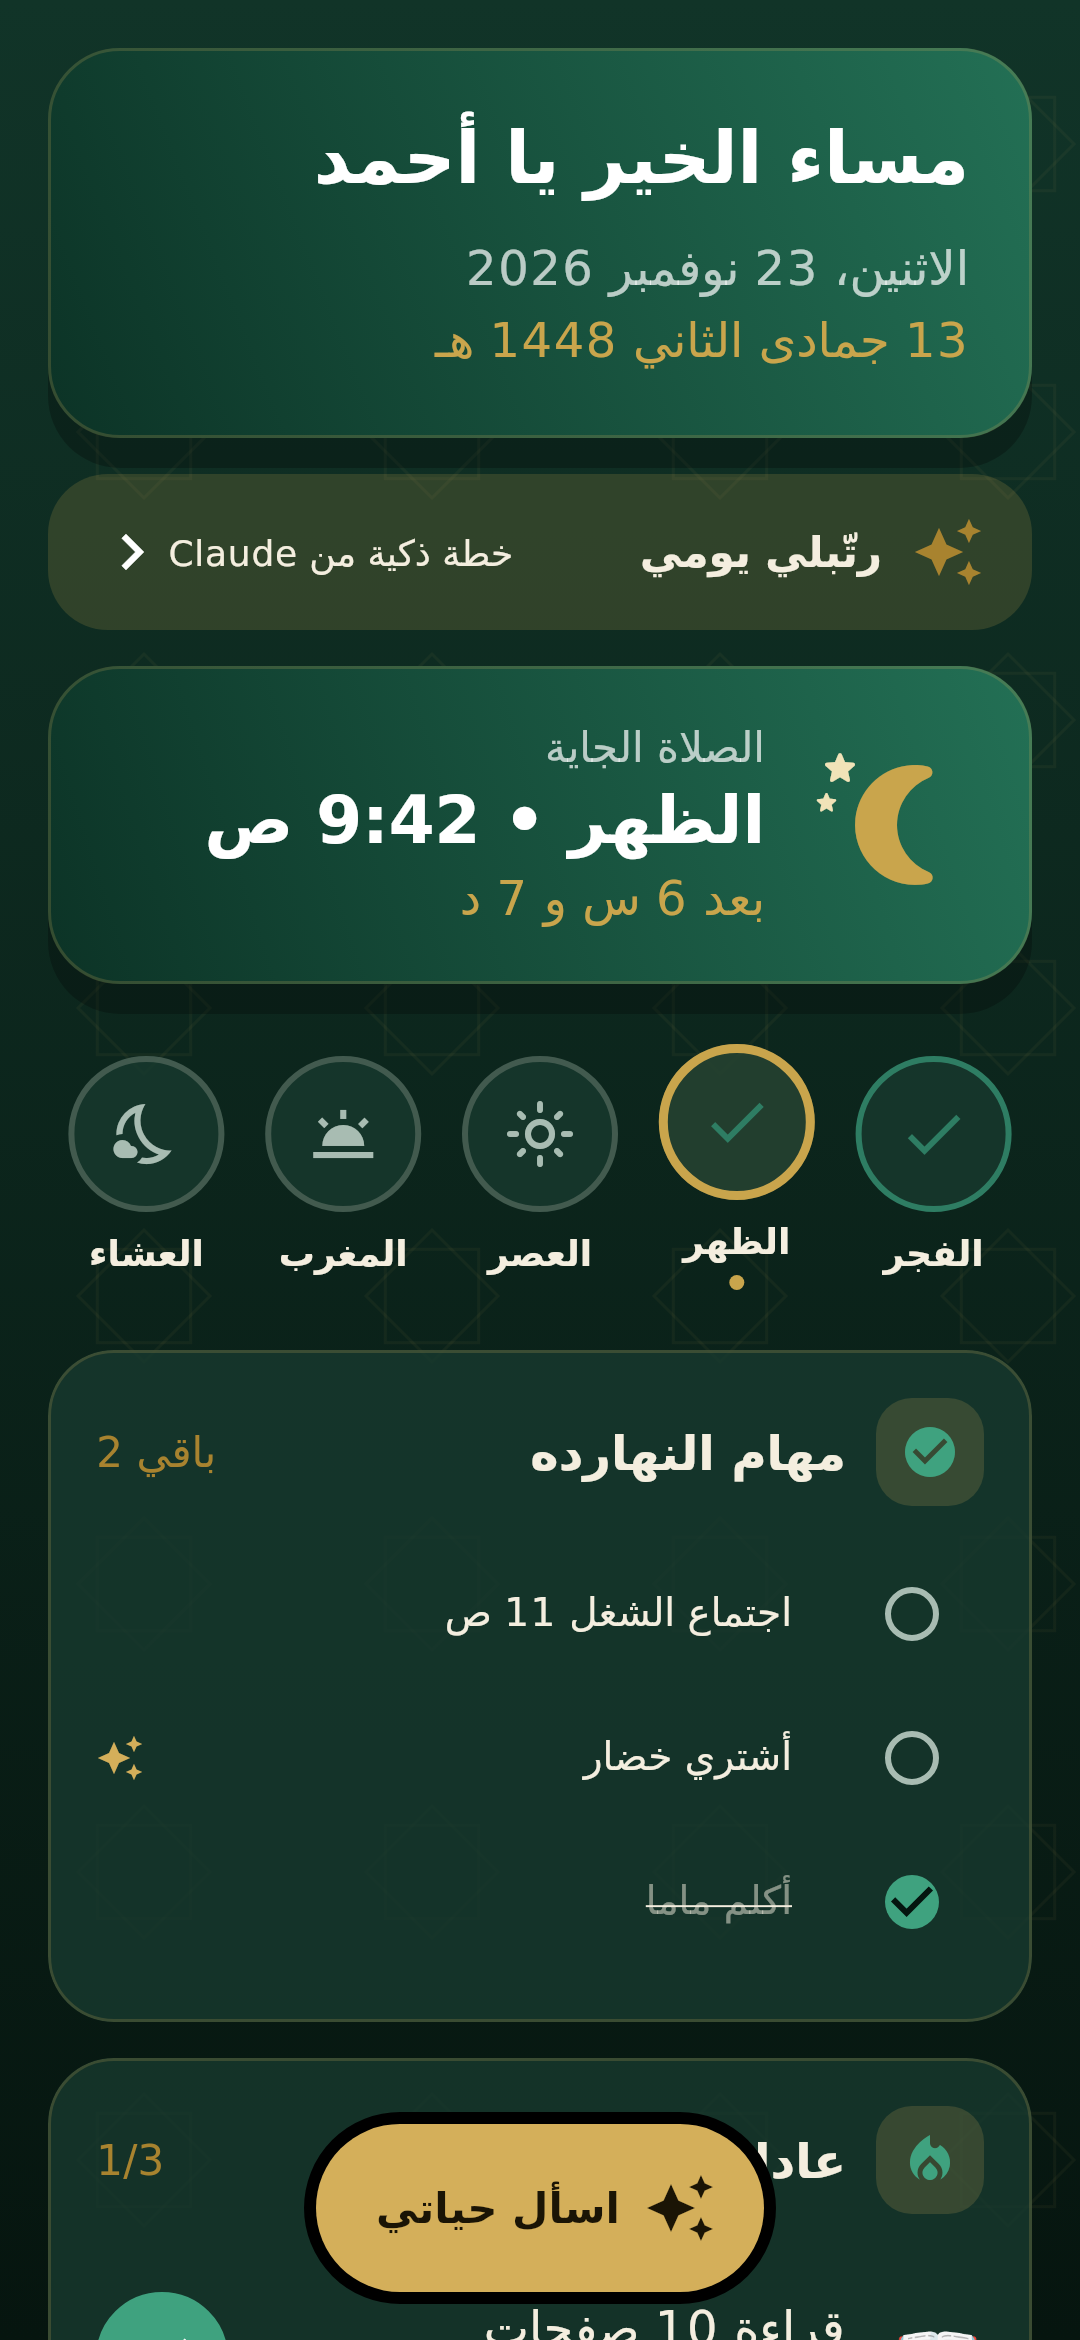
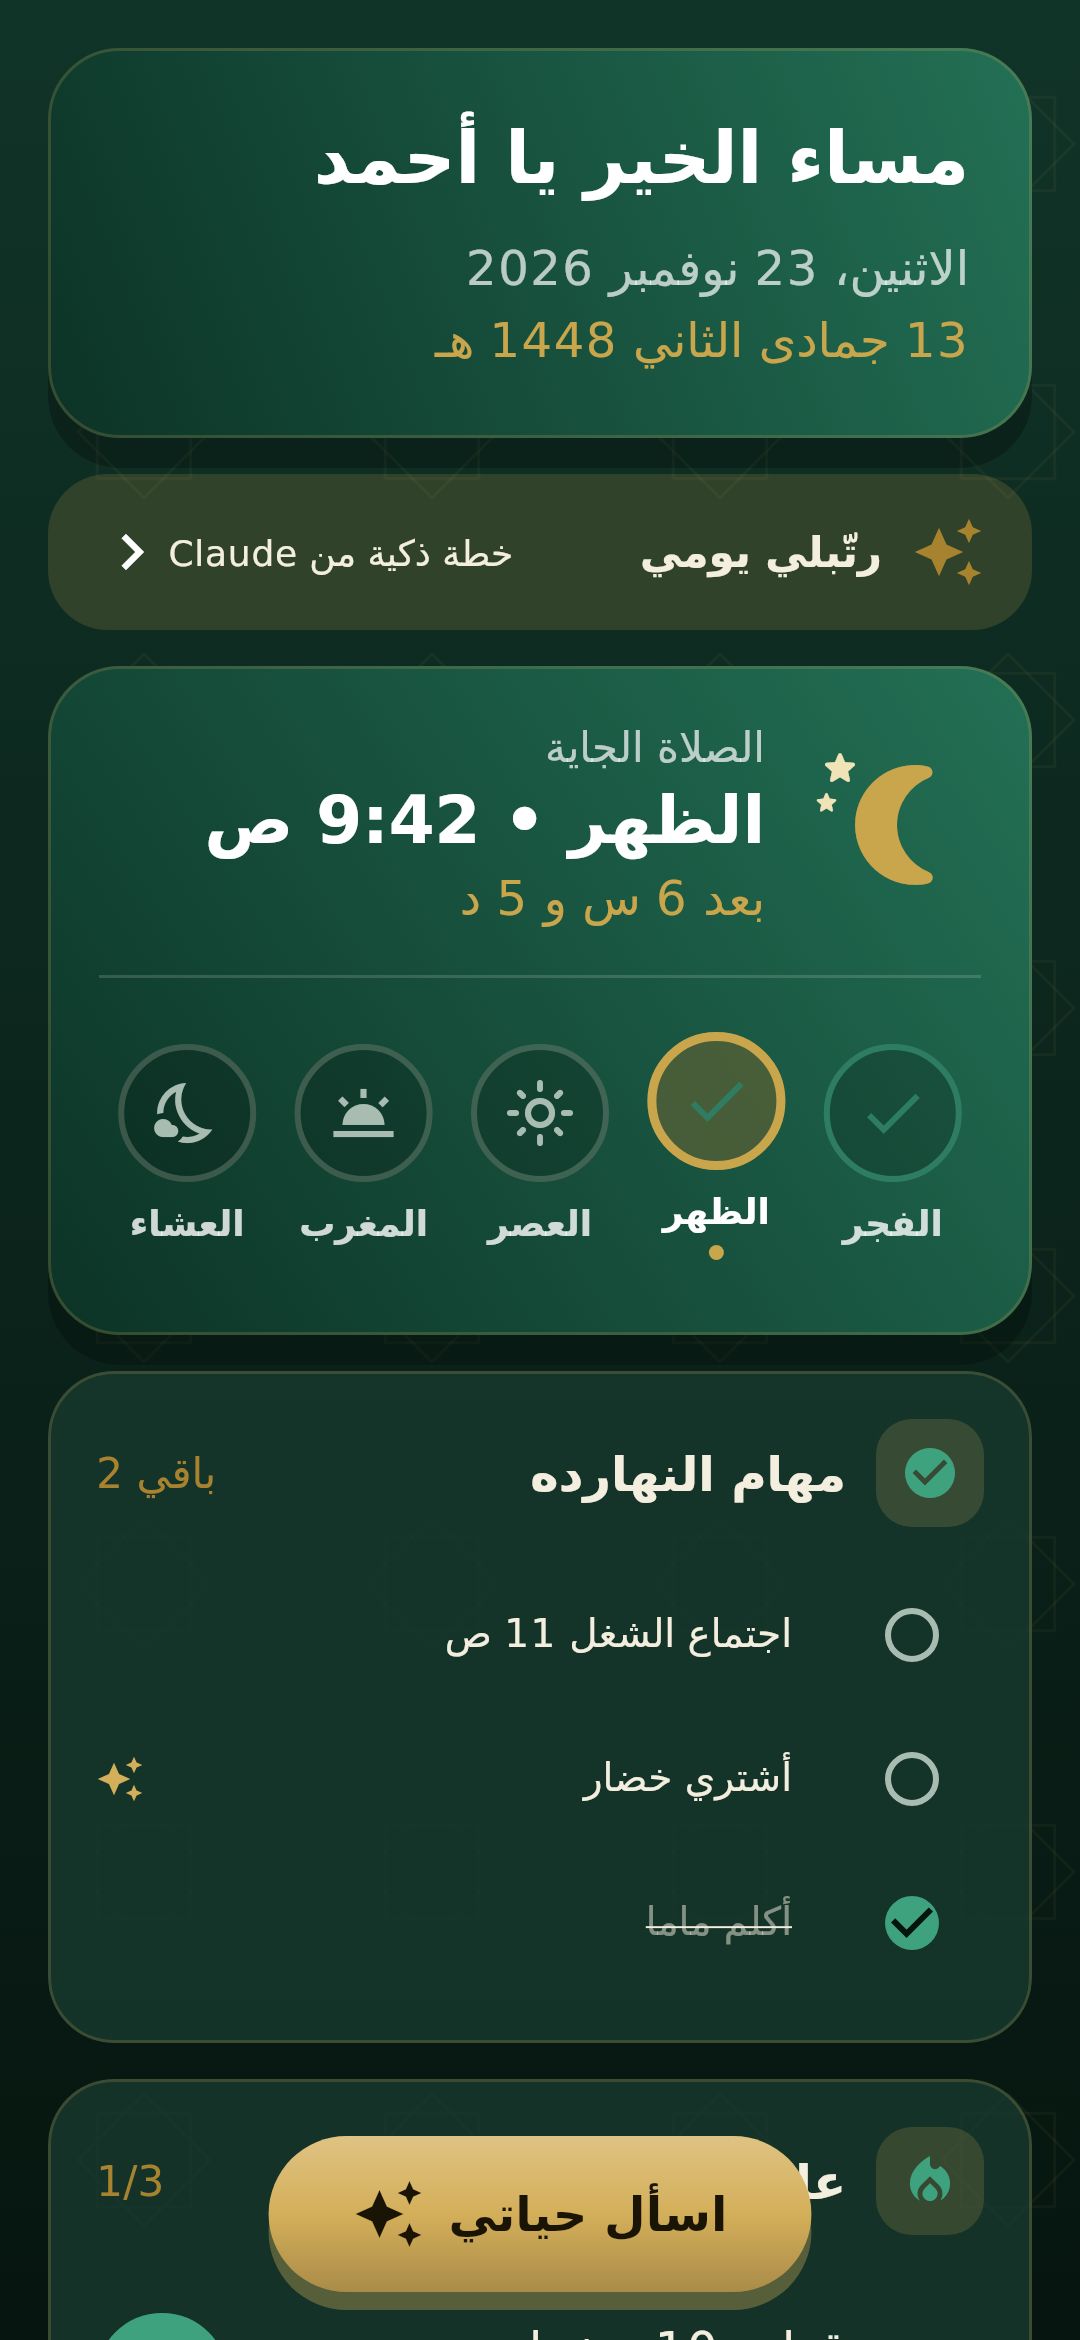
«يومي» زي تصميم Canva الغامق
- دواير الصلوات جوه بطاقة الصلاة الجاية نفسها
- زرار «اسأل حياتي» بتدرّج ذهبي ولمعة
- تصميم Canva للشاشة الرئيسية بالثيم الغامق: https://canva.link/lgh809nareywvcc

Claude-Session: https://claude.ai/code/session_012Fkr24NAbBCQeJKGYjUUBa

diff --git a/lib/features/today/today_screen.dart b/lib/features/today/today_screen.dart
@@ -71,16 +71,7 @@ class _TodayScreenState extends ConsumerState<TodayScreen> {
 
     return Scaffold(
       floatingActionButtonLocation: FloatingActionButtonLocation.centerFloat,
-      floatingActionButton: FloatingActionButton.extended(
-        elevation: 4,
-        shape: const StadiumBorder(),
-        onPressed: () => context.push('/assistant'),
-        icon: const Icon(Icons.auto_awesome),
-        label: const Text(
-          'اسأل حياتي',
-          style: TextStyle(fontWeight: FontWeight.w800),
-        ),
-      ),
+      floatingActionButton: const _AskButton(),
       body: SafeArea(
         child: ListView(
           padding: const EdgeInsets.fromLTRB(16, 16, 16, 96),
@@ -92,10 +83,9 @@ class _TodayScreenState extends ConsumerState<TodayScreen> {
             const SizedBox(height: 12),
             GestureDetector(
               onTap: () => context.go('/worship'),
-              child: const NextPrayerHero(compact: true),
+              // دواير الصلوات جوه نفس البطاقة (زي تصميم Canva الغامق)
+              child: const NextPrayerHero(compact: true, footer: _PrayersRow()),
             ),
-            const SizedBox(height: 12),
-            const _PrayersRow(),
             const _RamadanSlot(),
             const SizedBox(height: 12),
             SectionCard(
@@ -253,10 +243,12 @@ class _PrayersRow extends ConsumerWidget {
           mainAxisAlignment: MainAxisAlignment.spaceAround,
           children: [
             for (final p in PrayerName.values)
-              PrayerDot(
-                prayer: p,
-                status: log[p],
-                isNext: nextIsToday && next.name == p,
+              Expanded(
+                child: PrayerDot(
+                  prayer: p,
+                  status: log[p],
+                  isNext: nextIsToday && next.name == p,
+                ),
               ),
           ],
         ),
@@ -301,11 +293,11 @@ class PrayerDot extends StatelessWidget {
     return Column(
       children: [
         Container(
-          width: 52,
-          height: 52,
+          width: 46,
+          height: 46,
           decoration: BoxDecoration(
             shape: BoxShape.circle,
-            color: Theme.of(context).cardTheme.color,
+            color: Colors.black.withValues(alpha: 0.18),
             border: Border.all(color: ring, width: isNext ? 3 : 2),
             boxShadow: isNext
                 ? [
@@ -334,10 +326,14 @@ class PrayerDot extends StatelessWidget {
           ),
         ),
         const SizedBox(height: 6),
-        Text(
-          prayer.ar,
-          style: Theme.of(context).textTheme.labelMedium?.copyWith(
-            fontWeight: isNext ? FontWeight.w800 : FontWeight.w600,
+        FittedBox(
+          fit: BoxFit.scaleDown,
+          child: Text(
+            prayer.ar,
+            style: Theme.of(context).textTheme.labelMedium?.copyWith(
+              color: Colors.white.withValues(alpha: isNext ? 1 : 0.8),
+              fontWeight: isNext ? FontWeight.w800 : FontWeight.w600,
+            ),
           ),
         ),
         if (isNext)
@@ -619,6 +615,62 @@ class _RamadanSlot extends ConsumerWidget {
       child: GestureDetector(
         onTap: () => context.push('/worship/ramadan'),
         child: const RamadanHero(),
+      ),
+    );
+  }
+}
+
+/// زرار «اسأل حياتي» بتدرّج ذهبي ولمعة
+class _AskButton extends StatelessWidget {
+  const _AskButton();
+
+  @override
+  Widget build(BuildContext context) {
+    final p = context.palette;
+    return DecoratedBox(
+      decoration: BoxDecoration(
+        borderRadius: BorderRadius.circular(40),
+        gradient: LinearGradient(
+          colors: [
+            Color.lerp(p.accent, Colors.white, 0.25)!,
+            p.accent,
+            Color.lerp(p.accent, Colors.black, 0.2)!,
+          ],
+          begin: Alignment.topCenter,
+          end: Alignment.bottomCenter,
+        ),
+        boxShadow: [
+          BoxShadow(
+            color: p.accent.withValues(alpha: 0.35),
+            blurRadius: 18,
+            offset: const Offset(0, 6),
+          ),
+        ],
+      ),
+      child: Material(
+        type: MaterialType.transparency,
+        child: InkWell(
+          borderRadius: BorderRadius.circular(40),
+          onTap: () => context.push('/assistant'),
+          child: Padding(
+            padding: const EdgeInsets.symmetric(horizontal: 28, vertical: 14),
+            child: Row(
+              mainAxisSize: MainAxisSize.min,
+              children: [
+                Text(
+                  'اسأل حياتي',
+                  style: TextStyle(
+                    color: p.onAccent,
+                    fontWeight: FontWeight.w800,
+                    fontSize: 16,
+                  ),
+                ),
+                const SizedBox(width: 8),
+                Icon(Icons.auto_awesome, color: p.onAccent),
+              ],
+            ),
+          ),
+        ),
       ),
     );
   }

diff --git a/lib/features/worship/worship_screen.dart b/lib/features/worship/worship_screen.dart
@@ -202,8 +202,11 @@ class _Tile extends StatelessWidget {
 
 /// بطاقة الصلاة الجاية بعدّاد تنازلي (بتظهر في «يومي» و«عباداتي»)
 class NextPrayerHero extends ConsumerWidget {
-  const NextPrayerHero({super.key, this.compact = false});
+  const NextPrayerHero({super.key, this.compact = false, this.footer});
   final bool compact;
+
+  /// محتوى إضافي جوه نفس البطاقة (زي دواير الصلوات في «يومي»)
+  final Widget? footer;
 
   @override
   Widget build(BuildContext context, WidgetRef ref) {
@@ -224,32 +227,42 @@ class NextPrayerHero extends ConsumerWidget {
           ),
         ],
       ),
-      child: Row(
+      child: Column(
         children: [
-          const _CrescentMark(),
-          const SizedBox(width: 16),
-          Expanded(
-            child: Column(
-              crossAxisAlignment: CrossAxisAlignment.start,
-              children: [
-                Text(
-                  'الصلاة الجاية',
-                  style: text.bodyMedium?.copyWith(color: Colors.white70),
+          Row(
+            children: [
+              const _CrescentMark(),
+              const SizedBox(width: 16),
+              Expanded(
+                child: Column(
+                  crossAxisAlignment: CrossAxisAlignment.start,
+                  children: [
+                    Text(
+                      'الصلاة الجاية',
+                      style: text.bodyMedium?.copyWith(color: Colors.white70),
+                    ),
+                    Text(
+                      '${next.name.ar} • ${formatPrayerTime(next.time)}',
+                      style: text.titleLarge?.copyWith(
+                        color: Colors.white,
+                        fontWeight: FontWeight.w800,
+                      ),
+                    ),
+                    Text(
+                      formatCountdown(next.time.difference(now)),
+                      style: text.bodyLarge?.copyWith(color: AppColors.gold500),
+                    ),
+                  ],
                 ),
-                Text(
-                  '${next.name.ar} • ${formatPrayerTime(next.time)}',
-                  style: text.titleLarge?.copyWith(
-                    color: Colors.white,
-                    fontWeight: FontWeight.w800,
-                  ),
-                ),
-                Text(
-                  formatCountdown(next.time.difference(now)),
-                  style: text.bodyLarge?.copyWith(color: AppColors.gold500),
-                ),
-              ],
-            ),
+              ),
+            ],
           ),
+          if (footer != null) ...[
+            const SizedBox(height: 14),
+            Divider(color: Colors.white.withValues(alpha: 0.15), height: 1),
+            const SizedBox(height: 10),
+            footer!,
+          ],
         ],
       ),
     );
